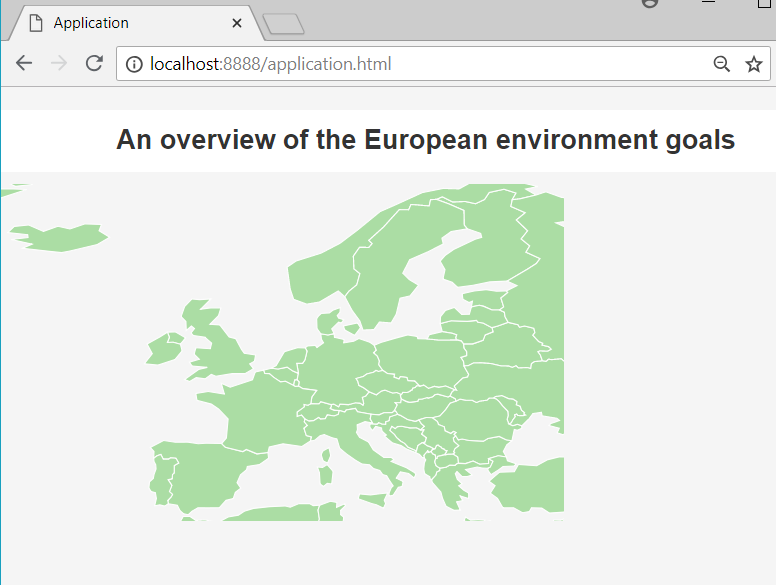
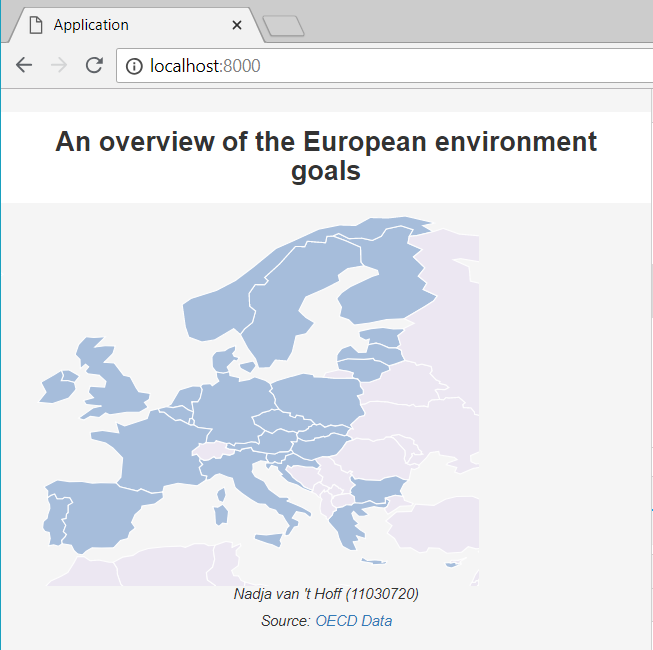
update process

diff --git a/index.html b/index.html
@@ -8,12 +8,12 @@
 		<meta name="viewport" content="width=device-width, initial-scale=1">
 		<link rel="stylesheet" href="https://maxcdn.bootstrapcdn.com/bootstrap/3.3.7/css/bootstrap.min.css"
 			integrity="sha384-BVYiiSIFeK1dGmJRAkycuHAHRg32OmUcww7on3RYdg4Va+PmSTsz/K68vbdEjh4u" crossorigin="anonymous">
-		<link rel="stylesheet" type="text/css" href="application.css">
+		<link rel="stylesheet" type="text/css" href="code/application.css">
 		<script src="//cdnjs.cloudflare.com/ajax/libs/d3/3.5.3/d3.min.js"></script>
 		<script src="//cdnjs.cloudflare.com/ajax/libs/topojson/1.6.9/topojson.min.js"></script>
-	  <script src="/datamap.world.min.js"></script>
+	  <script src="code/datamap.world.min.js"></script>
 		<script src="https://d3js.org/queue.v1.min.js"></script>
-		<script src="application.js"></script>
+		<script src="code/application.js"></script>
 	</head>
 	<body>
 		<div>

diff --git a/code/application.js b/code/application.js
@@ -4,15 +4,12 @@
 * Nadja van 't Hoff (11030720)
 */
 
-
-$.echo file_get_contents("..data/data2015.json");
-
 // add map
 window.onload = function() {
 
   // wait loading the figures until the data is loaded
   queue()
-    .defer(d3.json, "data2015.json")
+    .defer(d3.json, "../data/data2015.json")
     .await(make_figures);
 
   // create European map
